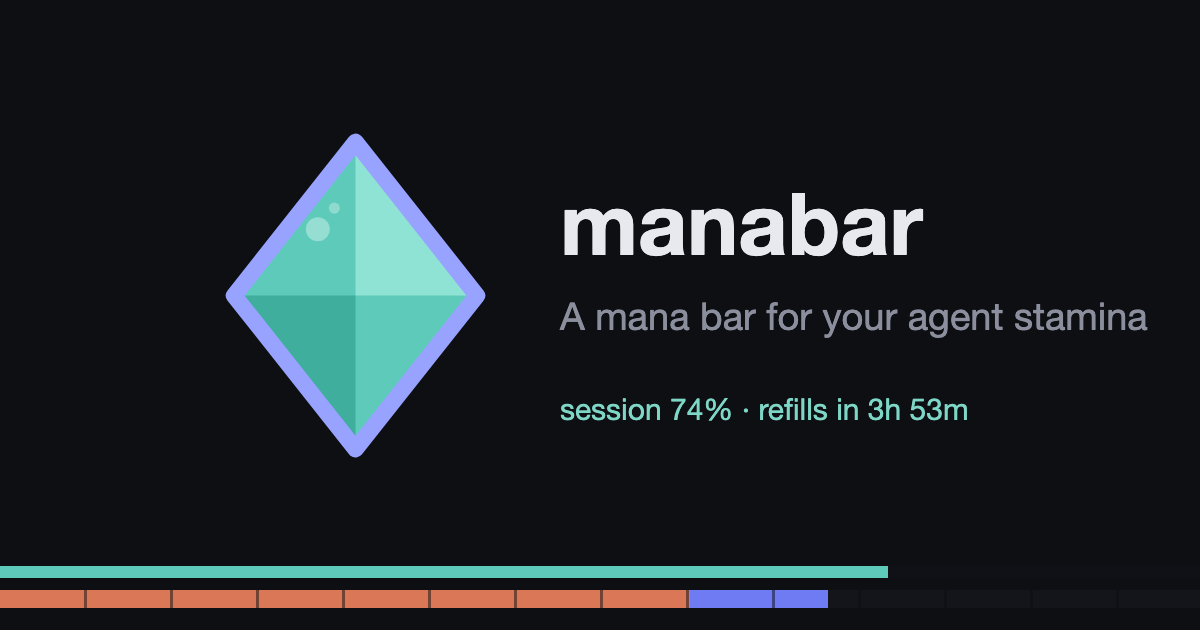
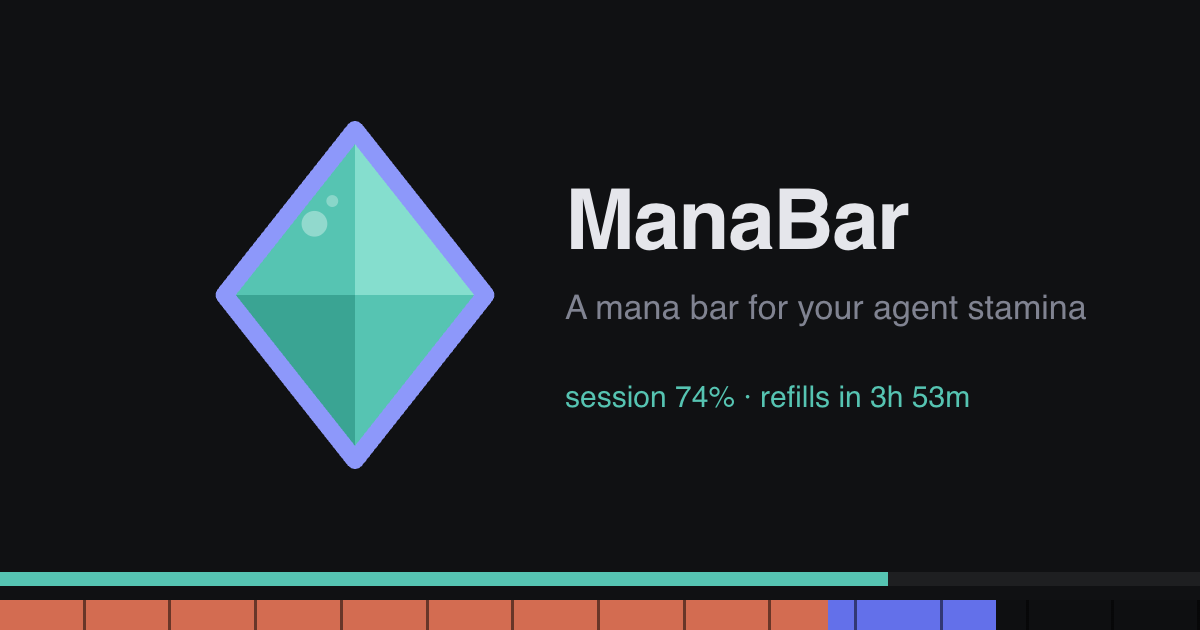
ManaBar: TitleCase the product name
The app bundle, window title, Quit item, site copy, README, and share
card now read ManaBar per Apple convention. Lowercase manabar survives
only where renaming breaks things: the domain, repo, bundle identifier,
code identifiers, and the stable manabar.dmg asset name.

diff --git a/site/index.html b/site/index.html
@@ -3,21 +3,21 @@
 <head>
 <meta charset="UTF-8" />
 <meta name="viewport" content="width=device-width, initial-scale=1" />
-<title>manabar: a mana bar for your agent stamina</title>
-<meta name="description" content="manabar pins a thin, click-through meter to the bottom of your screen. Whatever tool you're working in, your agent stamina stays in view." />
+<title>ManaBar: a mana bar for your agent stamina</title>
+<meta name="description" content="ManaBar pins a thin, click-through meter to the bottom of your screen. Whatever tool you're working in, your agent stamina stays in view." />
 <link rel="canonical" href="https://getmanabar.com/" />
 <link rel="icon" type="image/png" href="/favicon.png" />
 <link rel="apple-touch-icon" href="/icon.png" />
 <meta property="og:type" content="website" />
-<meta property="og:site_name" content="manabar" />
-<meta property="og:title" content="manabar: a mana bar for your agent stamina" />
+<meta property="og:site_name" content="ManaBar" />
+<meta property="og:title" content="ManaBar: a mana bar for your agent stamina" />
 <meta property="og:description" content="A click-through meter at the bottom of your screen that keeps your agent stamina in view: what's left, and how fast the work is spending it." />
 <meta property="og:url" content="https://getmanabar.com/" />
 <meta property="og:image" content="https://getmanabar.com/og.png" />
 <meta property="og:image:width" content="1200" />
 <meta property="og:image:height" content="630" />
 <meta name="twitter:card" content="summary_large_image" />
-<meta name="twitter:title" content="manabar: a mana bar for your agent stamina" />
+<meta name="twitter:title" content="ManaBar: a mana bar for your agent stamina" />
 <meta name="twitter:description" content="A click-through meter at the bottom of your screen that keeps your agent stamina in view: what's left, and how fast the work is spending it." />
 <meta name="twitter:image" content="https://getmanabar.com/og.png" />
 <script>
@@ -34,7 +34,7 @@
 {
   "@context": "https://schema.org",
   "@type": "SoftwareApplication",
-  "name": "manabar",
+  "name": "ManaBar",
   "operatingSystem": "macOS",
   "applicationCategory": "UtilitiesApplication",
   "description": "An MMO-style stamina bar for coding agents: a click-through overlay that keeps your Claude and Codex session and weekly meters in view, with exact refill times.",
@@ -262,12 +262,12 @@
 <body>
   <div class="wrap">
     <header>
-      <img class="flask" src="/icon.png" alt="manabar crystal logo" width="88" height="88" />
+      <img class="flask" src="/icon.png" alt="ManaBar crystal logo" width="88" height="88" />
       <h1>A <span class="mana">mana bar</span> for your agent stamina</h1>
-      <p class="sub">manabar pins a thin, click-through meter to the bottom of your screen. Whatever tool you're working in, your agent stamina stays in view.</p>
+      <p class="sub">ManaBar pins a thin, click-through meter to the bottom of your screen. Whatever tool you're working in, your agent stamina stays in view.</p>
     </header>
 
-    <div class="demo" role="img" aria-label="The manabar overlay depleting as work runs, then refilling">
+    <div class="demo" role="img" aria-label="The ManaBar overlay depleting as work runs, then refilling">
       <div class="pill"><span class="sw" style="background:var(--teal)"></span><span class="d">session</span> <span class="pv-wrap"><span class="s pv pv1">100%</span><span class="s pv pv2">74%</span><span class="s pv pv3">61%</span><span class="s pv pv4">47%</span></span> <span class="d">· refills in 3h 53m</span><span class="sep"></span><span class="sw" style="background:var(--orange)"></span><span class="d">fable</span> <span class="f">69%</span><span class="sep"></span><span class="sw" style="background:var(--indigo)"></span><span class="d">week</span> <span class="w">83%</span> <span class="d">· resets in 6d 2h</span></div>
       <div class="sessionbar"><div class="fill anim"></div><div class="aghost g1"></div><div class="aghost g2"></div><div class="aghost g3"></div><div class="agold"></div><div class="ashine"></div></div>
       <div class="atoast">+53% session refilled</div>
@@ -276,7 +276,7 @@
 
     <p class="demo-cap"><strong>Claude Code</strong> · Already signed into Claude Code? Then there's nothing to set up. The thin bar on top is your session limit, and the bar below it carries both weekly limits.</p>
 
-    <div class="demo cdemo" role="img" aria-label="manabar in Codex mode: a single weekly bar">
+    <div class="demo cdemo" role="img" aria-label="ManaBar in Codex mode: a single weekly bar">
       <div class="pill"><span class="sw" style="background:var(--indigo)"></span><span class="d">week</span> <span class="w">88%</span> <span class="d">· resets in 5d 9h</span></div>
       <div class="weekbar"><div class="wf" style="width:88%"></div><div class="ticks"></div></div>
     </div>
@@ -301,7 +301,7 @@
     <div class="gamer">
       <h2>Gamer mode</h2>
       <p class="gintro">Want a little fun? Turn on Gamer mode and the labels read like you're in an MMO.</p>
-      <div class="demo gdemo" role="img" aria-label="manabar in gamer mode: the same bars with mana vocabulary">
+      <div class="demo gdemo" role="img" aria-label="ManaBar in gamer mode: the same bars with mana vocabulary">
         <div class="pill"><span class="s">74% mana left</span> <span class="d">· refills in 3h 53m</span><span class="sep"></span><span class="sw" style="background:var(--orange)"></span><span class="d">fable</span> <span class="f">69%</span><span class="sep"></span><span class="sw" style="background:var(--indigo)"></span><span class="d">week</span> <span class="w">83%</span> <span class="d">· resets in 6d 2h</span></div>
         <div class="sessionbar"><div class="fill"></div></div>
         <div class="weekbar"><div class="wf"></div><div class="ff"></div><div class="ticks"></div></div>

diff --git a/site/privacy.html b/site/privacy.html
@@ -3,8 +3,8 @@
 <head>
 <meta charset="utf-8" />
 <meta name="viewport" content="width=device-width, initial-scale=1" />
-<title>Privacy · manabar</title>
-<meta name="description" content="What the manabar site and app do and don't collect." />
+<title>Privacy · ManaBar</title>
+<meta name="description" content="What the ManaBar site and app do and don't collect." />
 <link rel="icon" type="image/png" href="/icon.png" />
 <link rel="canonical" href="https://getmanabar.com/privacy.html" />
 <meta name="robots" content="noindex" />
@@ -40,7 +40,7 @@
     <p class="updated">Last updated August 10, 2026</p>
 
     <h2>The app</h2>
-    <p>manabar collects nothing. There is no telemetry, no analytics, no account, and no server of ours. The app reads the sign-in your Claude Code or Codex CLI already has on your machine and sends it only to that provider's own API over TLS to fetch your usage meters. Credentials are never stored, and the local cache holds meter percentages and reset times only.</p>
+    <p>ManaBar collects nothing. There is no telemetry, no analytics, no account, and no server of ours. The app reads the sign-in your Claude Code or Codex CLI already has on your machine and sends it only to that provider's own API over TLS to fetch your usage meters. Credentials are never stored, and the local cache holds meter percentages and reset times only.</p>
     <p>You don't have to take our word for it: the app is open source, and the code that touches your token is deliberately small. See <a href="https://github.com/andylimlabs/manabar/blob/main/SECURITY.md">SECURITY.md</a> for the guarantees and how to verify them.</p>
 
     <h2>This website</h2>

diff --git a/site/404.html b/site/404.html
@@ -3,7 +3,7 @@
 <head>
 <meta charset="UTF-8" />
 <meta name="viewport" content="width=device-width, initial-scale=1" />
-<title>Page not found · manabar</title>
+<title>Page not found · ManaBar</title>
 <link rel="icon" type="image/png" href="/favicon.png" />
 <style>
   body { background: #0e0f13; color: #e8e9ee; font: 16px/1.6 -apple-system, "SF Pro Text", sans-serif; display: grid; place-items: center; min-height: 100vh; margin: 0; text-align: center; }
@@ -15,7 +15,7 @@
 <body>
   <div>
     <h1>Page not found</h1>
-    <p>This page is out of mana. <a href="/">Back to manabar</a></p>
+    <p>This page is out of mana. <a href="/">Back to ManaBar</a></p>
   </div>
 </body>
 </html>

diff --git a/src-tauri/src/lib.rs b/src-tauri/src/lib.rs
@@ -523,7 +523,7 @@ fn ensure_bar(app: &AppHandle, label: &str, mon: &Monitor) {
         return;
     }
     let built = WebviewWindowBuilder::new(app, label, WebviewUrl::App("index.html".into()))
-        .title("manabar")
+        .title("ManaBar")
         .decorations(false)
         .transparent(true)
         .shadow(false)
@@ -753,7 +753,7 @@ pub fn run() {
                 MenuItem::with_id(app, "demo", "Preview animations", true, None::<&str>)?;
             let status = MenuItem::with_id(app, "status", "Status: starting…", false, None::<&str>)?;
             app.manage(StatusItem(status.clone()));
-            let quit = MenuItem::with_id(app, "quit", "Quit manabar", true, None::<&str>)?;
+            let quit = MenuItem::with_id(app, "quit", "Quit ManaBar", true, None::<&str>)?;
             let sep1 = PredefinedMenuItem::separator(app)?;
             let sep2 = PredefinedMenuItem::separator(app)?;
             let menu = Menu::with_items(

diff --git a/README.md b/README.md
@@ -1,14 +1,14 @@
-# manabar
+# ManaBar
 
 An MMO-style mana bar for your agent stamina. A click-through overlay pinned to the bottom edge of every display: whatever tool you're working in, it shows how much session and weekly budget you have left, how fast the work is spending it, and exactly when you refill.
 
 Website: [getmanabar.com](https://getmanabar.com)
 
-![The manabar overlay mid-session: the session meter at 61% with a ghost trail marking recent usage, and the weekly meters below](design/readme-hero.png)
+![The ManaBar overlay mid-session: the session meter at 61% with a ghost trail marking recent usage, and the weekly meters below](design/readme-hero.png)
 
 ## Install
 
-[Download the DMG](https://github.com/andylimlabs/manabar/releases/latest/download/manabar.dmg) from the [releases page](https://github.com/andylimlabs/manabar/releases), open it, and drag manabar to Applications. Signed and notarized for macOS 12 or later, universal (Apple Silicon and Intel). Or build from source (below).
+[Download the DMG](https://github.com/andylimlabs/manabar/releases/latest/download/manabar.dmg) from the [releases page](https://github.com/andylimlabs/manabar/releases), open it, and drag ManaBar to Applications. Signed and notarized for macOS 12 or later, universal (Apple Silicon and Intel). Or build from source (below).
 
 ## What it shows
 
@@ -20,7 +20,7 @@ Website: [getmanabar.com](https://getmanabar.com)
 
 ## How it works, and why you can check
 
-manabar reads the sign-in your Claude Code or Codex CLI already has on your machine and asks the provider's own API for your usage meters. Credentials never leave your machine except to that provider over TLS, nothing is stored beyond meter percentages and reset times, and there is no account, telemetry, or server involved.
+ManaBar reads the sign-in your Claude Code or Codex CLI already has on your machine and asks the provider's own API for your usage meters. Credentials never leave your machine except to that provider over TLS, nothing is stored beyond meter percentages and reset times, and there is no account, telemetry, or server involved.
 
 That claim is auditable: the code that touches your token lives in [`src-tauri/src/lib.rs`](src-tauri/src/lib.rs), and it is short.
 

diff --git a/.claude/CLAUDE.md b/.claude/CLAUDE.md
@@ -2,6 +2,8 @@
 
 MMO-style stamina bar overlay for coding-agent usage limits. Tauri 2, vanilla TypeScript, macOS-first.
 
+Naming: the product is "ManaBar" (TitleCase, Apple convention) everywhere a person reads it: app bundle, menus, site copy, README, release notes. Lowercase "manabar" survives only where renaming would break things: the domain, the GitHub repo, the bundle identifier, code identifiers, and the `manabar.dmg` release asset (stable latest-download URL).
+
 ## Vocabulary (locked, use exactly)
 
 - The default readout is plain: every meter reads swatch + label + value: "session 74% · refills in 3h 53m". Session limits use "refills in"; weekly limits use "resets in".
